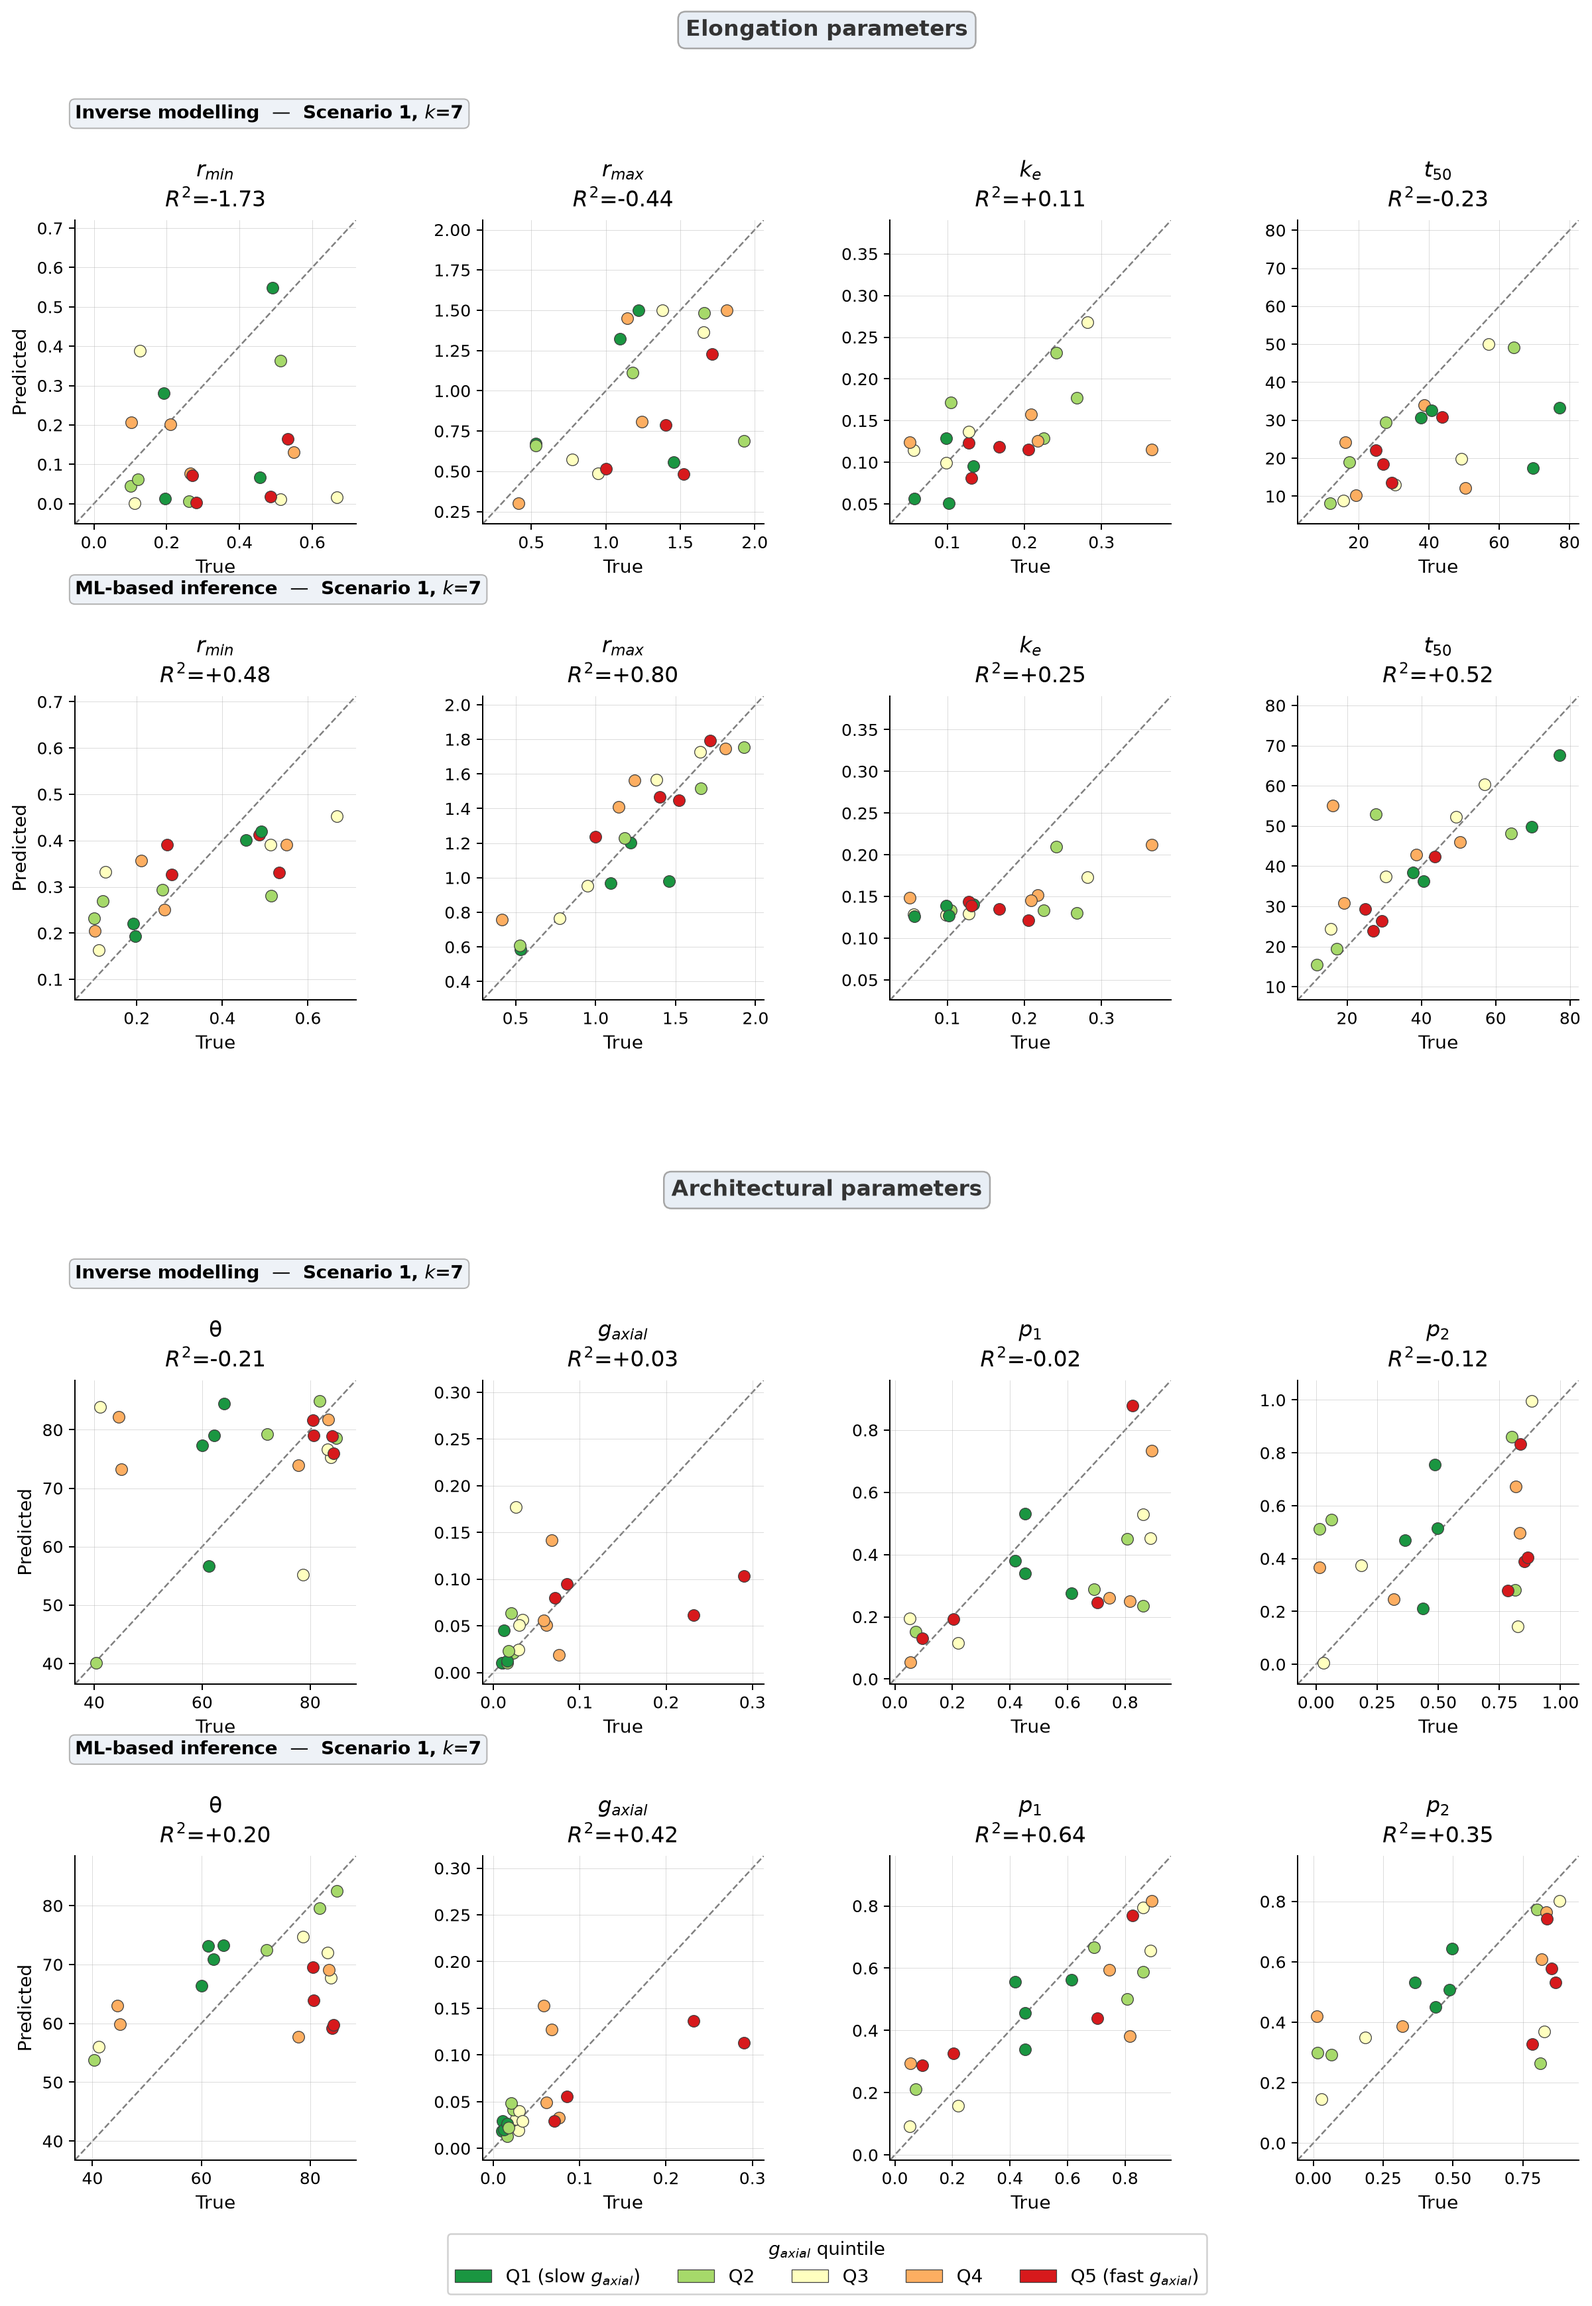
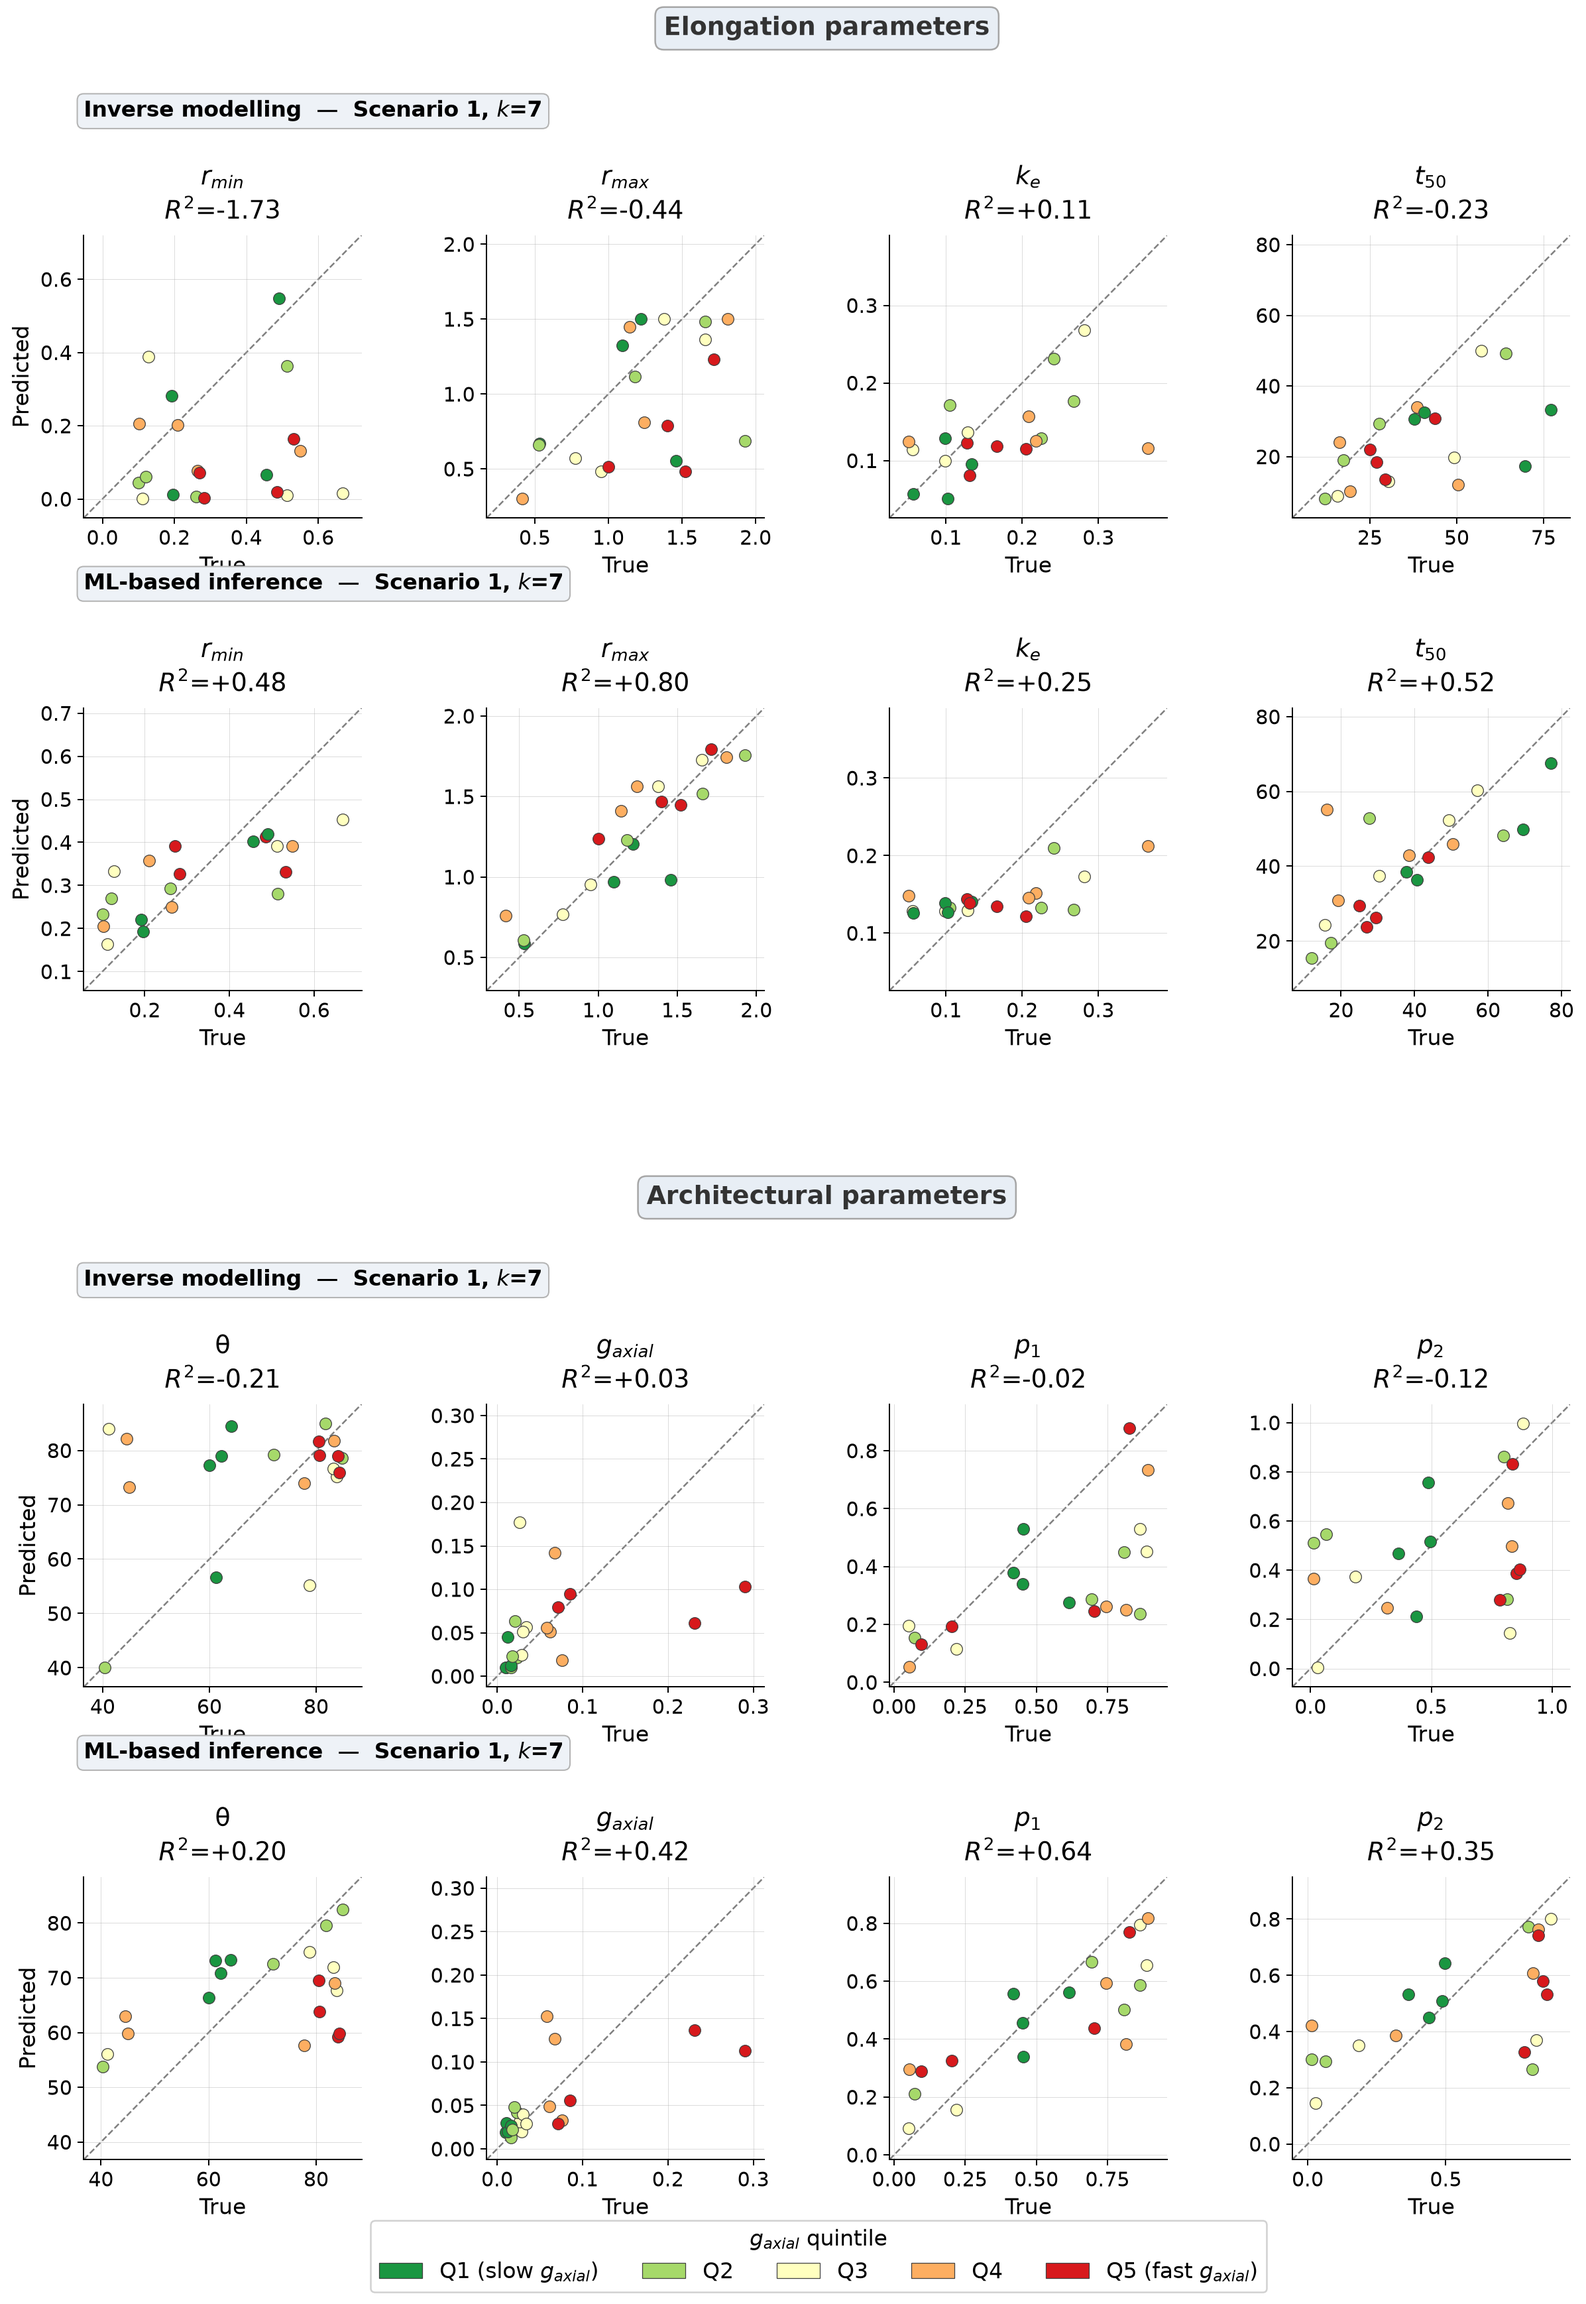
Fig3: increase font sizes for better readability
Panel titles 13→15, axis labels 11→13, tick labels 10→12,
row annotations 11→13 raised to y=1.40, legend 11→13,
group headers 13→15, hspace 0.80→0.95

diff --git a/publication/scripts/plot_fig3_parameter_recovery.py b/publication/scripts/plot_fig3_parameter_recovery.py
@@ -111,8 +111,8 @@ fig = plt.figure(figsize=(14, 20))
 #                 row 3 = architectural header, rows 4-5 = architectural panels
 gs  = GridSpec(6, 4, figure=fig,
                height_ratios=[0.12, 1, 1, 0.12, 1, 1],
-               hspace=0.80, wspace=0.45,
-               left=0.07, right=0.97, top=0.97, bottom=0.07)
+               hspace=0.95, wspace=0.45,
+               left=0.08, right=0.97, top=0.97, bottom=0.07)
 
 def add_group_header(row, label):
     ax = fig.add_subplot(gs[row, :])
@@ -120,7 +120,7 @@ def add_group_header(row, label):
     ax.text(0.5, 0.5, label,
             transform=ax.transAxes,
             ha="center", va="center",
-            fontsize=13, fontweight="bold", color="#333333",
+            fontsize=15, fontweight="bold", color="#333333",
             bbox=dict(boxstyle="round,pad=0.35", fc="#e8eef5", ec="0.65", lw=1.0))
 
 add_group_header(0, "Elongation parameters")
@@ -168,20 +168,20 @@ for gs_start, params, cmae_label, tab_label in GROUP_BLOCKS:
             r2 = r2_score(tv, pv)
             ax.set_xlim(lo, hi)
             ax.set_ylim(lo, hi)
-            ax.set_xlabel("True", fontsize=11)
-            ax.set_ylabel("Predicted", fontsize=11) if col_idx == 0 else ax.set_ylabel("")
-            ax.tick_params(labelsize=10)
+            ax.set_xlabel("True", fontsize=13)
+            ax.set_ylabel("Predicted", fontsize=13) if col_idx == 0 else ax.set_ylabel("")
+            ax.tick_params(labelsize=12)
             ax.grid(True, lw=0.35, alpha=0.5)
             ax.spines["top"].set_visible(False)
             ax.spines["right"].set_visible(False)
-            ax.set_title(f"{PARAM_LABELS[param]}\n$R^2$={r2:+.2f}", fontsize=13, pad=8)
+            ax.set_title(f"{PARAM_LABELS[param]}\n$R^2$={r2:+.2f}", fontsize=15, pad=10)
 
             # Row annotation on leftmost column
             if col_idx == 0:
                 ax.annotate(
                     row_label,
-                    xy=(0.0, 1.32), xycoords="axes fraction",
-                    fontsize=11, fontweight="bold", ha="left", va="bottom",
+                    xy=(0.0, 1.40), xycoords="axes fraction",
+                    fontsize=13, fontweight="bold", ha="left", va="bottom",
                     bbox=dict(boxstyle="round,pad=0.30", fc="#eef2f7", ec="0.7", lw=0.8))
 
 # ── Legend ────────────────────────────────────────────────────────────────────
@@ -192,7 +192,7 @@ legend_patches = [
     for q in Q_ORDER
 ]
 fig.legend(handles=legend_patches, title="$g_{axial}$ quintile",
-           loc="lower center", ncol=5, fontsize=11, title_fontsize=11,
+           loc="lower center", ncol=5, fontsize=13, title_fontsize=13,
            framealpha=0.9, bbox_to_anchor=(0.52, 0.01))
 
 os.makedirs(os.path.dirname(FIG_OUT), exist_ok=True)
